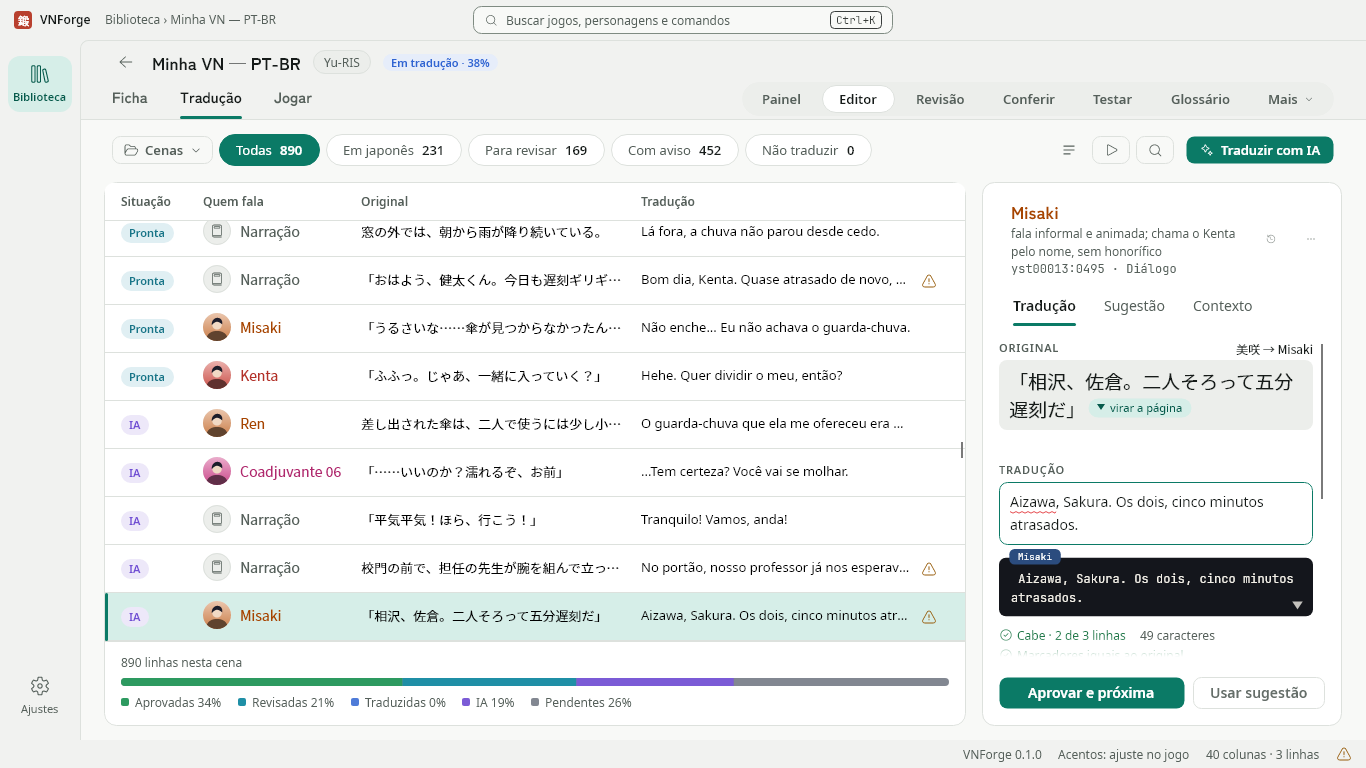
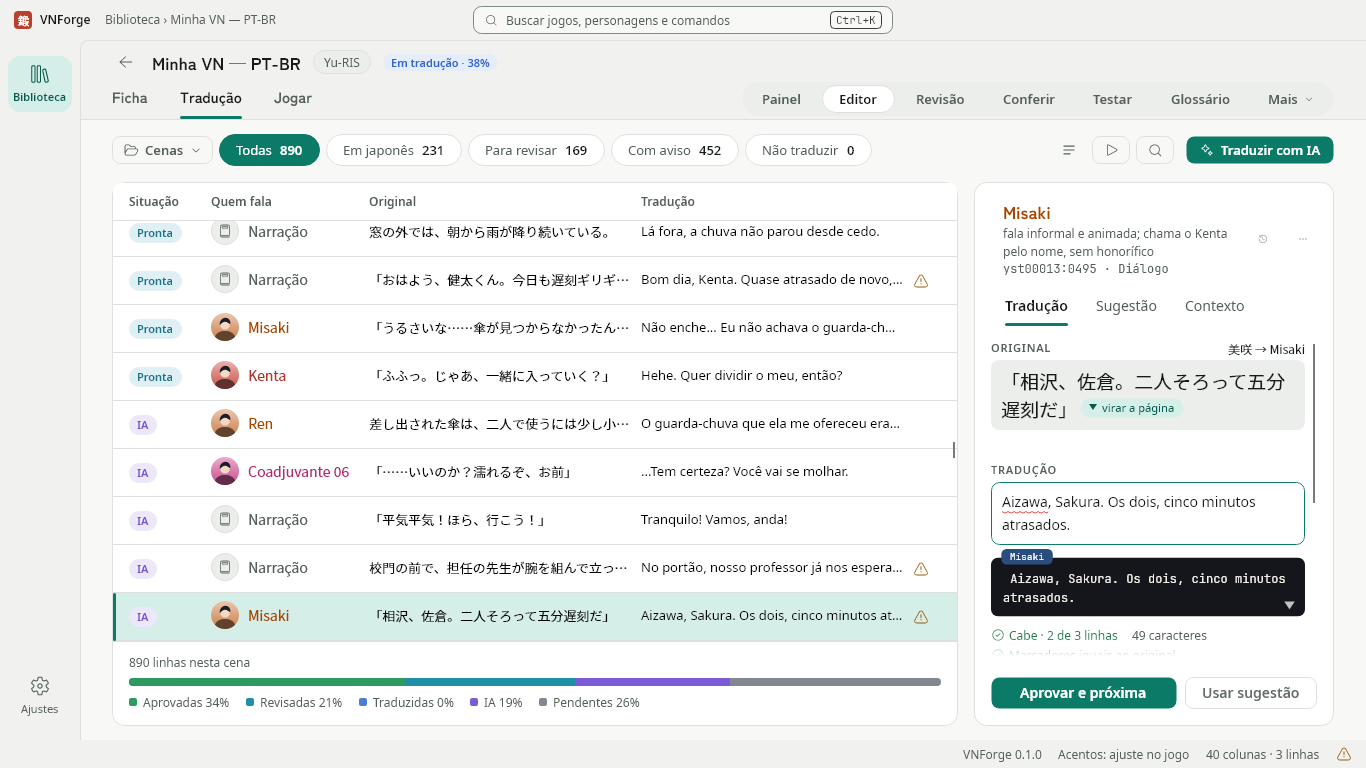
fix: Editor mantem o conteudo em x=112 do shell e Usar em todos na linha do aviso (Refs #546)
Os titulos da grade deixam de ser overline: o helper do teste do Roteiro le a classe colhead. Capturas refeitas.

diff --git a/src/VNForge.App/Views/EditorView.axaml.cs b/src/VNForge.App/Views/EditorView.axaml.cs
@@ -68,8 +68,8 @@ public sealed partial class EditorView : UserControl
 
     private const double ColumnsTop = 16;
 
-    /// <summary>O quadro do #546 recua a grade, as cenas e o inspetor 24 px da borda (".eb"), 8 px a menos que o recuo de 32 do resto da tela.</summary>
-    private const double ColumnsBleed = 8;
+    /// <summary>O quadro do #546 recua a grade, as cenas e o inspetor 24 px da borda (".eb"), mas o shell do #544 fixa o conteúdo de toda página em x=112 (32 px); fica 0 até o Alessandro decidir.</summary>
+    private const double ColumnsBleed = 0;
 
     /// <summary>
     /// A lista de cenas na grade: a coluna inteira, a faixa do estado recolhido (#393) ou, abaixo de 1400 px, nenhuma (o flyout do cabeçalho a substitui).

diff --git a/tests/VNForge.App.Tests/Rendering/EditorScriptRenderTests.cs b/tests/VNForge.App.Tests/Rendering/EditorScriptRenderTests.cs
@@ -212,7 +212,7 @@ public sealed class EditorScriptRenderTests(HeadlessFixture fixture, DemoFolderF
 
     private static Border Header(Visual window, string name) => window.GetVisualDescendants().OfType<Border>().Single(b => b.Name == name);
 
-    private static string[] Titles(Border header) => header.GetVisualDescendants().OfType<TextBlock>().Where(t => t.Classes.Contains("overline")).Select(t => t.Text!).ToArray();
+    private static string[] Titles(Border header) => header.GetVisualDescendants().OfType<TextBlock>().Where(t => t.Classes.Contains("colhead")).Select(t => t.Text!).ToArray();
 
 
     private static TextBlock Speaker(LineRow row) => row.GetVisualDescendants().OfType<TextBlock>().Single(t => t.Name == "PART_Speaker");

diff --git a/tests/VNForge.App.Tests/Rendering/EditorV3RenderTests.cs b/tests/VNForge.App.Tests/Rendering/EditorV3RenderTests.cs
@@ -104,7 +104,7 @@ public sealed class EditorV3RenderTests(HeadlessFixture fixture, DemoFolderFixtu
                     {
                         Assert.Equal(220, painelCenas.Bounds.Width, 0.5);
                         Assert.Equal(384, inspetor.GetVisualAncestors().OfType<Border>().First(b => b.Classes.Contains("panel")).Bounds.Width, 0.5);
-                        Assert.Equal(104, Frame(window, painelCenas).X, 0.5);
+                        Assert.Equal(112, Frame(window, painelCenas).X, 0.5);
                     }
 
                     // Lista de cenas: linhas de 32 px, a atual com a barra de 3 px.
